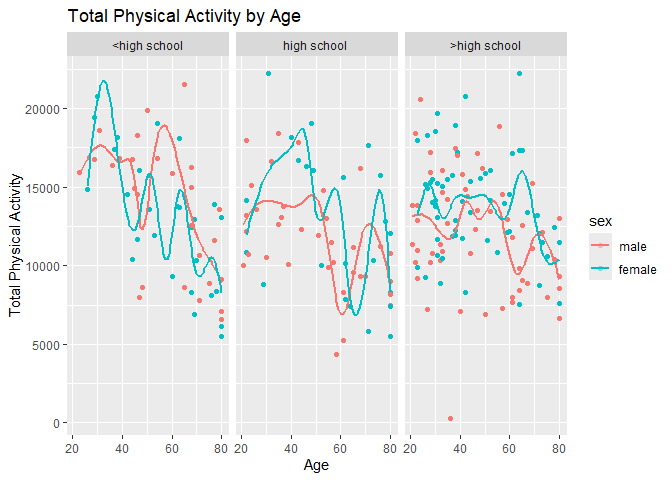
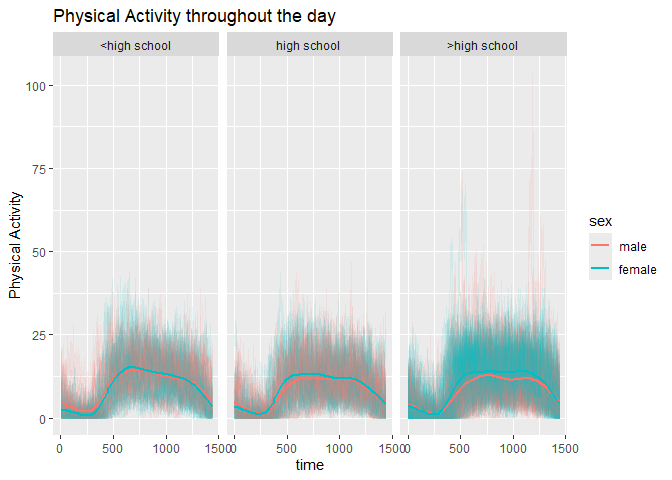
Plotting physical activity throughout the day

diff --git a/p8105_hw3_kad2243.md b/p8105_hw3_kad2243.md
@@ -226,3 +226,26 @@ nhanes %>%
   Younger individuals with less than a high school education appear to
   be more physically active than other groups. Women appear, on average,
   to be more physically active than men.
+
+Plotting activity throughout the day:
+
+``` r
+nhanes %>%
+    ggplot(aes(x = min, y = accel, color = sex)) +
+  geom_line(aes(group = SEQN), alpha = 0.1) +
+  geom_smooth(se = FALSE) +
+  facet_grid(. ~ education) +
+  labs(
+    title = "Physical Activity throughout the day",
+    x = "time",
+    y = "Physical Activity"
+  )
+```
+
+![](p8105_hw3_kad2243_files/figure-gfm/unnamed-chunk-14-1.png)<!-- -->
+
+- There appears to be more variation in physical activity throughout the
+  day in men and women with greater than a high school education.
+  Activity generally peaks for all groups mid morning, and remains level
+  through the evening. Women in the sample appear slightly more
+  physically active than the men.
